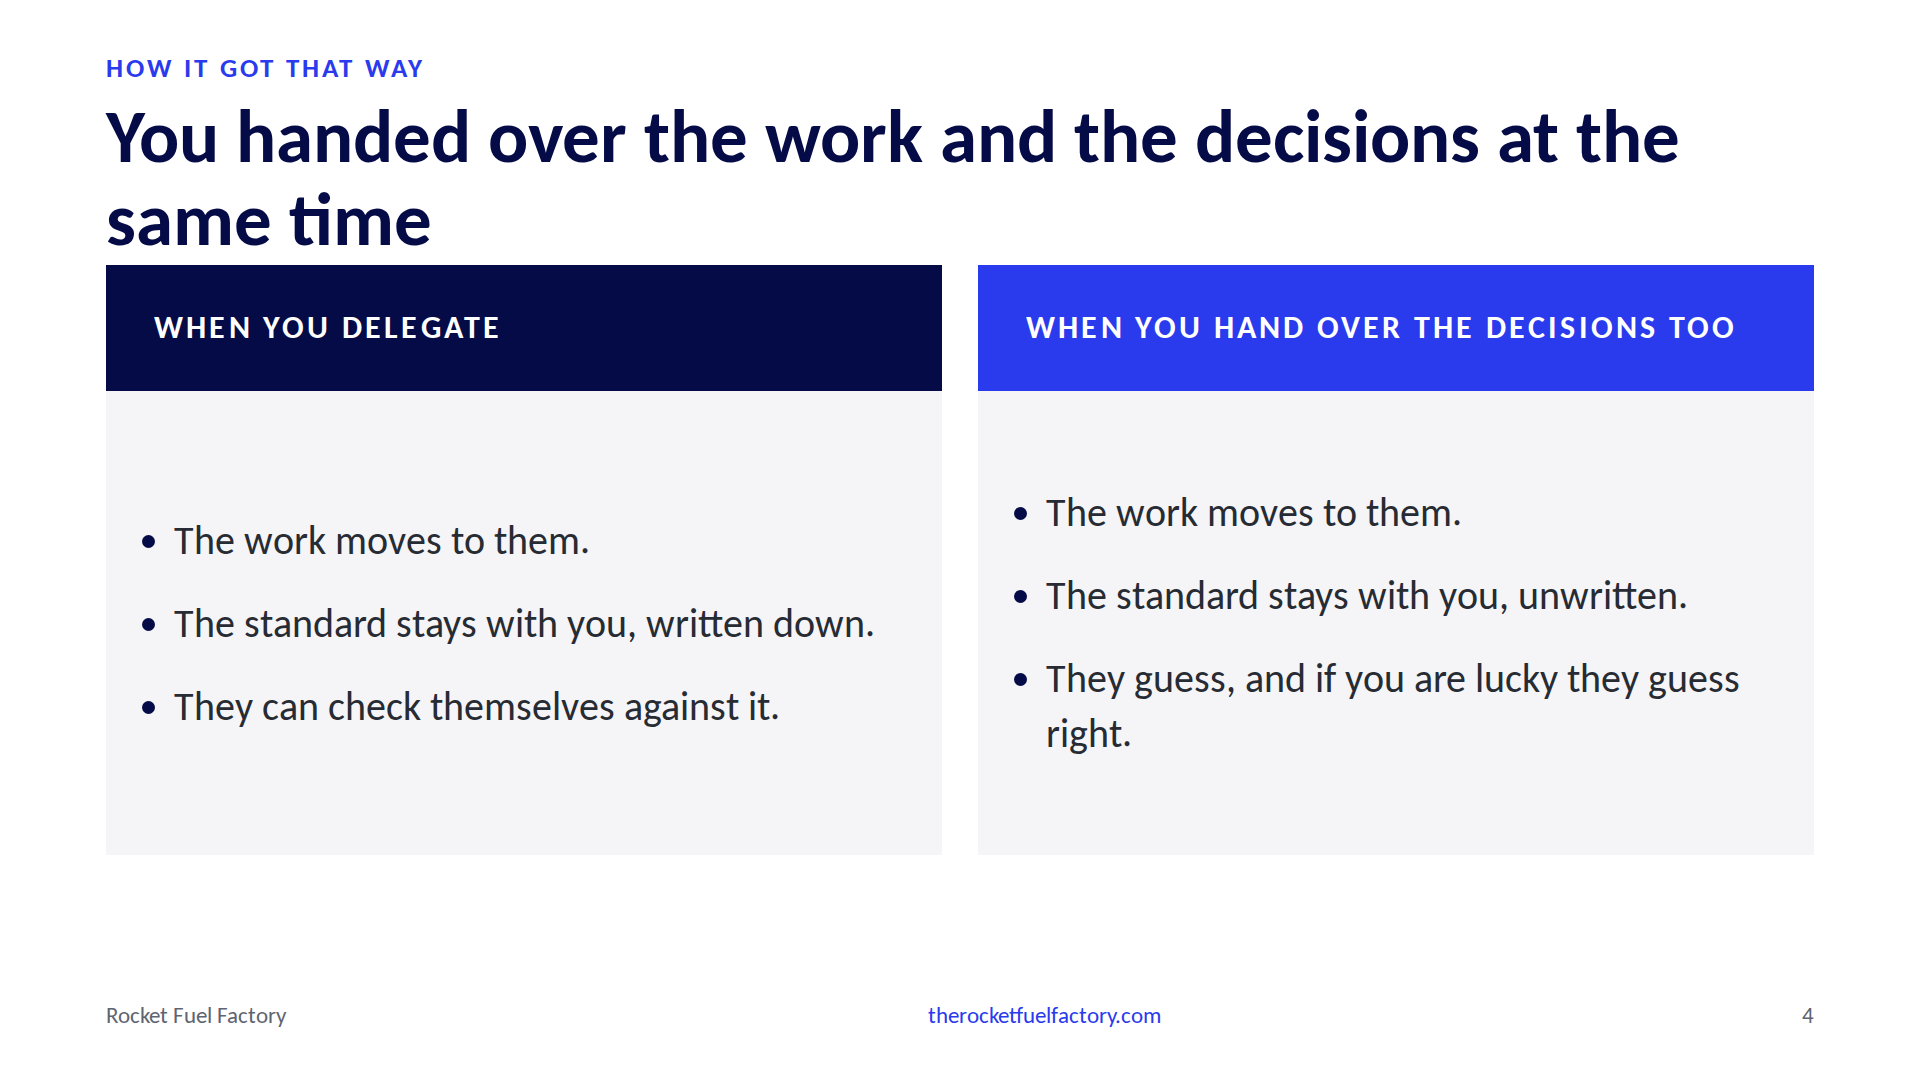
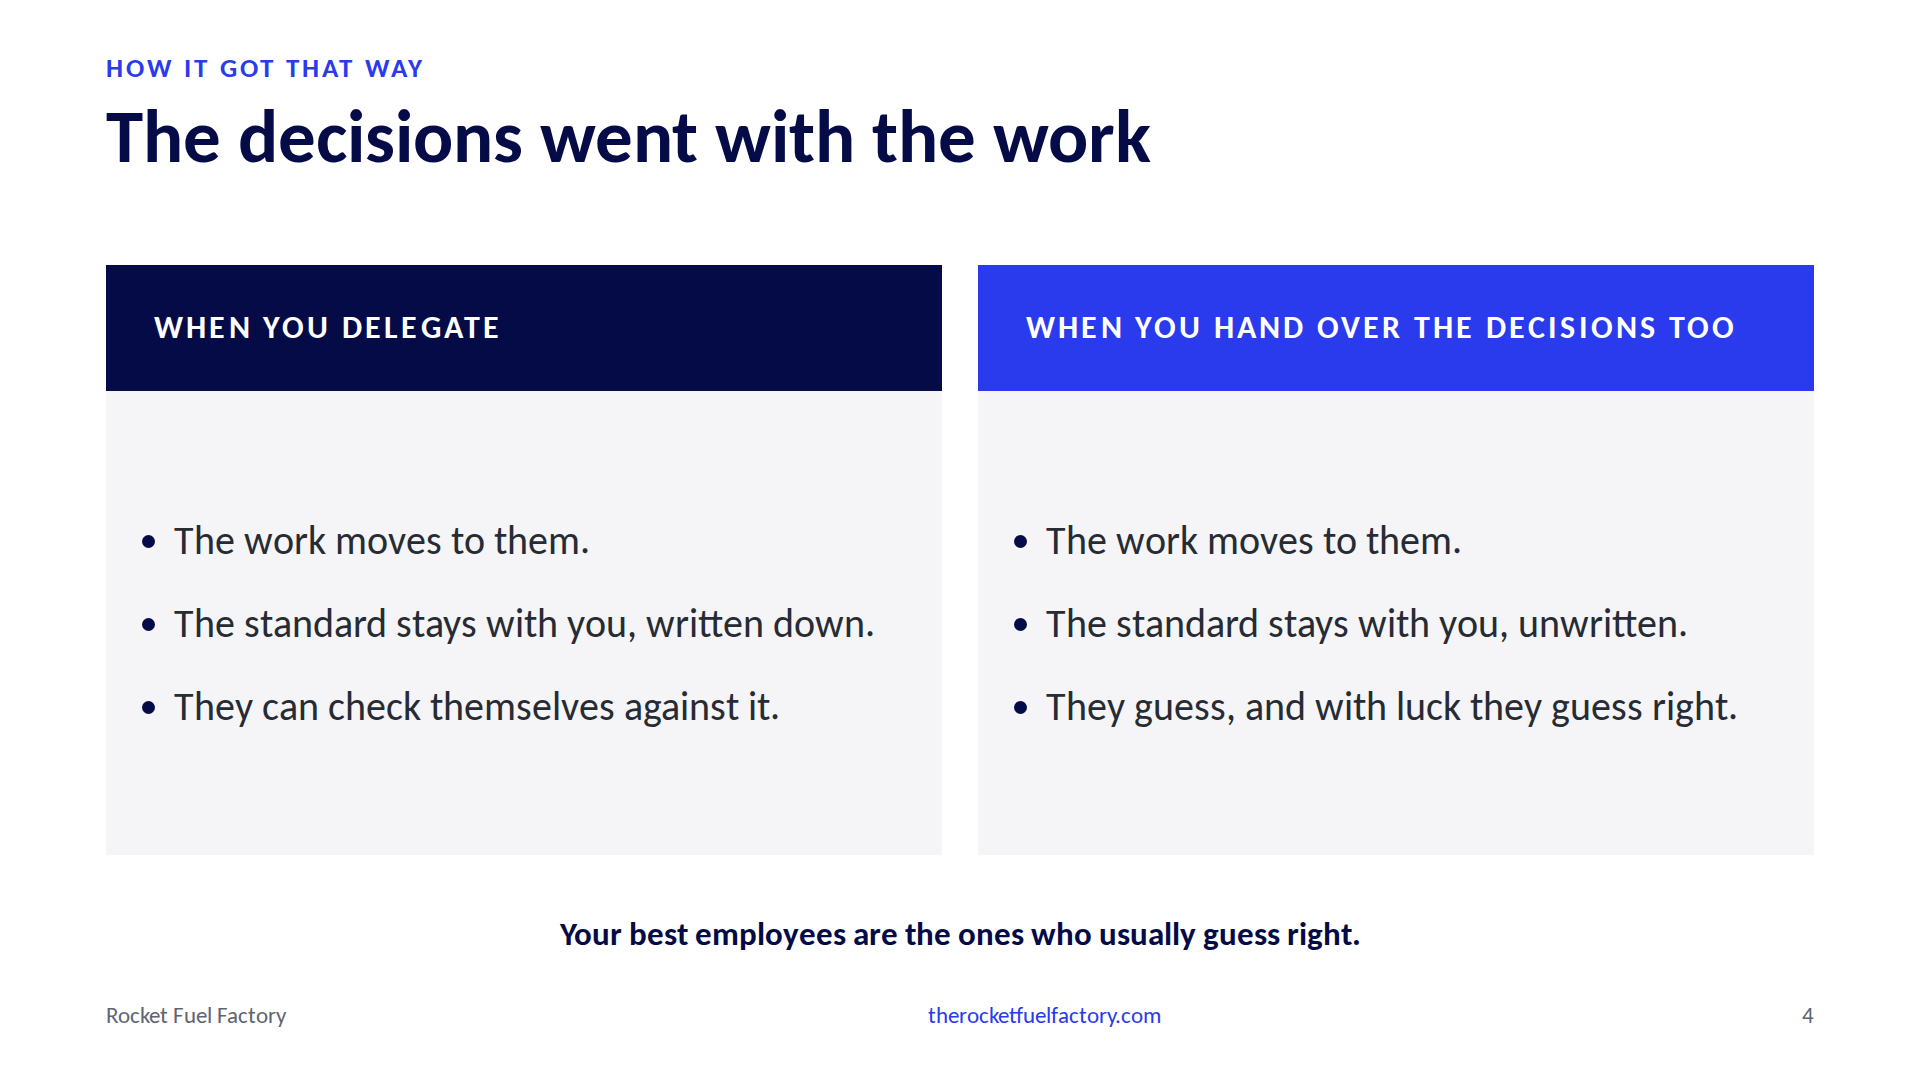
Slide 4: one-line title, Tim's footer, right column fits

diff --git a/src/components/slides/004-AbdicateNotDelegate.jsx b/src/components/slides/004-AbdicateNotDelegate.jsx
@@ -4,7 +4,7 @@ export default function AbdicateNotDelegate({ slideNumber }) {
   return (
     <ComparisonSlide
       eyebrow="How it got that way"
-      title="You handed over the work and the decisions at the same time"
+      title="The decisions went with the work"
       accent="blue"
       slideNumber={slideNumber}
       left={{
@@ -13,8 +13,9 @@ export default function AbdicateNotDelegate({ slideNumber }) {
       }}
       right={{
         heading: 'When you hand over the decisions too',
-        items: ['The work moves to them.', 'The standard stays with you, unwritten.', 'They guess, and if you are lucky they guess right.'],
+        items: ['The work moves to them.', 'The standard stays with you, unwritten.', 'They guess, and with luck they guess right.'],
       }}
+      closing="Your best employees are the ones who usually guess right."
     />
   )
 }

diff --git a/docs/OUTLINE.md b/docs/OUTLINE.md
@@ -38,7 +38,7 @@ Closing line: If you can't write the rule, you can't hire your way out of it eit
 2. Pull statement, blue, a question with no footer: Whose vacation request do you dread approving? SLOW. Ask it, let the room name someone, click. The answer is the talk. Opens on delivery (what breaks when that person is out) without claiming anything about the room or repeating the Sizers. Tim's automation-fear line is spoken at slide 11, where Aharon's law answers it. A bridge slide about a stalled automation attempt was tried on 13 Sep and cut: it generalized, brought automation in at minute one, and duplicated the three-decisions slide.
 3. Which alert is noise. Which client wants the details. Which ticket gets a phone call. Orange: those are decisions, and they are not in any document. Eyebrow: what they decide all day. SLOW. Slide 2 is the person, slide 3 is a piece of what they carry. Note tells one case (the 2am alert that clears itself and the identical one that does not) rather than reading the list, then lands the title: a new hire cannot learn what nobody has written down, so hiring gives you two people you cannot spare. No Adobe here; that line belongs to Mike at slide 12. Bridge to 4: here is how it got that way.
 
-4. You handed over the work and the decisions at the same time (comparison, blue, no closing line). When you delegate: the work moves to them, the standard stays with you written down, they can check themselves against it. When you hand over the decisions too: the work moves to them, the standard stays with you unwritten, they guess and if you are lucky they guess right (Tim's line). Note: the two-sentence brief that works on your senior tech and fails on the new person; the brief was the problem both times; you only find out when you hand it to somebody who cannot read your mind; last line points at the demo without naming AI.
+4. The decisions went with the work (comparison, blue). Closing, Tim's line: your best employees are the ones who usually guess right. When you delegate: the work moves to them, the standard stays with you written down, they can check themselves against it. When you hand over the decisions too: the work moves to them, the standard stays with you unwritten, they guess and with luck they guess right. Note: the two-sentence brief that works on your senior tech and fails on the new person; the brief was the problem both times; you only find out when you hand it to somebody who cannot read your mind; last line points at the demo without naming AI.
 5. The demo never had a client (three bullets, blue). Every AI keynote is one sentence, then magic. It works because the presenter has no stake in what comes back. Back at work, every detail is the job, and somebody else checks them. Bullets are Tim's own outline sentences so the photo matches the rant. Tim rants over it, about a minute. No vendor names, nothing about the email; slide 7 opens cold. Astra launch frames and transcript were tried and dropped (docs/astra/); a picture of the demo does not show the absence of a client.
 6. Abdicating to a machine (full-width ask). What everyone actually does: one line ("Write an email to the client about this. Apologize and let them know we're on top of it.") above a pasted PSA ticket. The ticket has everything a tech needs: full waiting room, FGT-60F, Phase 1, DigiCert, and the aside that this cert was flagged in the Q2 review and nobody approved the renewal. Every fact.
 7. What the client would have received (full-width output, whole, two columns). Ticket number in the subject. Incident-report headers. Placeholder sign-off. And in blue, the machine's own sentence to Dana: this certificate had actually been flagged for renewal in our Q2 review, and we're correcting the gap that let it lapse. The one line in the ticket you would never put in front of a client, now in an email she forwards to the practice owner. Reran it three times: disclosed twice, hidden once, you did not get a vote either way. Line: you pasted the ticket, it told your client what you never approved. Then: it did exactly what you wrote. So did your tech. This one was fast enough for you to notice.
